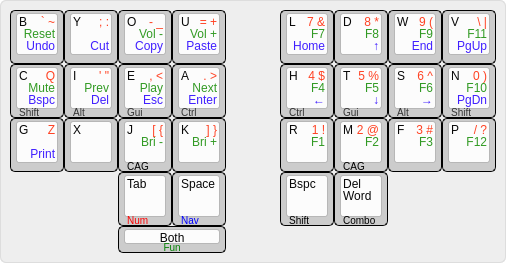
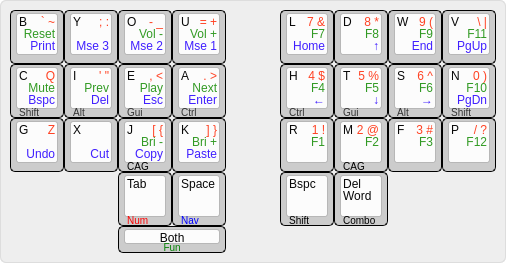
Update tamatama layout

diff --git a/keyboards/tamatama/keymaps/engram/keymap.c b/keyboards/tamatama/keymaps/engram/keymap.c
@@ -11,8 +11,10 @@ enum custom_keycodes {
     KC_CCUT,
     KC_CCPY,
     KC_CPST,
+    KC_BSEN,
     KC_SEN,
     KC_MSCL,
+    KC_GA1
 };
 
 
@@ -21,7 +23,8 @@ enum mylayers {
     _NAV,
     _NUM,
     _FUN,
-    _MSE,
+    _GA1,
+    _GA2,
 };
 
 #define KC_SFT_C MT(MOD_LSFT, KC_C)
@@ -40,6 +43,7 @@ enum mylayers {
 #define KC_GUI_CMA MT(MOD_LGUI, KC_COMMA)
 #define KC_CTL_DOT MT(MOD_LCTL, KC_DOT)
 #define KC_CAG_LBC LCAG_T(KC_LBRC)
+#define KC_CAG_CPY LCAG_T(KC_CCPY)
 #define KC_CAG_2 LCAG_T(KC_2)
 #define KC_CTL_4 MT(MOD_LCTL, KC_4)
 #define KC_GUI_5 MT(MOD_LGUI, KC_5)
@@ -68,9 +72,10 @@ enum mylayers {
 #define KC_SFT_F10 MT(MOD_LSFT, KC_F10)
 
 #define KC_FUN MO(_FUN)
+#define KC_GA2 MO(_GA2)
 #define KC_COMBO_SFT MT(MOD_LSFT, KC_BSPC)
-#define KC_COMBO_ALT1 LT(_NUM, KC_TAB)
-#define KC_COMBO_ALT2 LT(_NAV, KC_SPC)
+#define KC_COMBO_ALT2 LT(_NUM, KC_TAB)
+#define KC_COMBO_ALT1 LT(_NAV, KC_SPC)
 
 #include "g/keymap_combo.h"
 
@@ -79,7 +84,7 @@ const uint16_t PROGMEM keymaps[][MATRIX_ROWS][MATRIX_COLS] = {
          KC_B,     KC_Y,     KC_O,          KC_U,             KC_L,         KC_D,        KC_W,     KC_V,
          KC_SFT_C, KC_ALT_I, KC_GUI_E,      KC_CTL_A,         KC_CTL_H,     KC_GUI_T,    KC_ALT_S, KC_SFT_N,
          KC_G,     KC_X,     KC_CAG_J,      KC_K,             KC_R,         KC_CAG_M,    KC_F,     KC_P,
-                             KC_COMBO_ALT1, KC_COMBO_ALT2,    KC_COMBO_SFT, KC_COMBO
+                             KC_COMBO_ALT2, KC_COMBO_ALT1,    KC_COMBO_SFT, KC_COMBO
     ),
     [_NUM] = LAYOUT_split_3x4_2(
          KC_GRV,       KC_SCLN,    KC_MINUS,   KC_EQUAL,      KC_7,       KC_8,     KC_9,     KC_BSLS,
@@ -88,27 +93,34 @@ const uint16_t PROGMEM keymaps[][MATRIX_ROWS][MATRIX_COLS] = {
                                    KC_TRNS,    KC_FUN,        KC_TRNS,    KC_TRNS
     ),
     [_NAV] = LAYOUT_split_3x4_2(
-         KC_CUDO,      KC_CCUT,    KC_CCPY,    KC_CPST,       KC_HOME,    KC_UP,      KC_END,     KC_PGUP,
+         KC_PSCR,      KC_BTN3,    KC_BTN2,    KC_BTN1,       KC_HOME,    KC_UP,      KC_END,     KC_PGUP,
          KC_SFT_BSP,   KC_ALT_DEL, KC_GUI_ESC, KC_CTL_ENT,    KC_CTL_LFT, KC_GUI_DWN, KC_ALT_RGT, KC_SFT_PGD,
-         KC_PSCR,      KC_NO,      KC_CAG_NO,  KC_NO,         KC_NO,      KC_CAG_NO,  KC_NO,      KC_NO,
+         KC_CUDO,      KC_CCUT,    KC_CAG_CPY, KC_CPST,       KC_NO,      KC_CAG_NO,  KC_NO,      KC_NO,
                                    KC_FUN,     KC_TRNS,       KC_TRNS,    KC_TRNS
     ),
     [_FUN] = LAYOUT_split_3x4_2(
          QK_BOOT,    KC_NO,      KC_VOLD,     KC_VOLU,       KC_F7,     KC_F8,     KC_F9,     KC_F11,
          KC_SFT_MUT, KC_ALT_PRV, KC_GUI_PLY,  KC_CTL_NXT,    KC_CTL_F4, KC_GUI_F5, KC_ALT_F6, KC_SFT_F10,
-         KC_NO,      KC_NO,      KC_CAG_BRD,  KC_BRIU,       KC_F1,     KC_CAG_F2, KC_F3,     KC_F12,
+         KC_GA1,     KC_NO,      KC_CAG_BRD,  KC_BRIU,       KC_F1,     KC_CAG_F2, KC_F3,     KC_F12,
                                  KC_TRNS,     KC_TRNS,       KC_TRNS,   KC_TRNS
     ),
-    [_MSE] = LAYOUT_split_3x4_2(
-         KC_TRNS, KC_TRNS, KC_TRNS, KC_TRNS,    KC_BTN3, KC_TRNS, KC_TRNS, KC_TRNS,
-         KC_TRNS, KC_TRNS, KC_TRNS, KC_TRNS,    KC_MSCL, KC_TRNS, KC_TRNS, KC_TRNS,
-         KC_TRNS, KC_TRNS, KC_TRNS, KC_TRNS,    KC_TRNS, KC_TRNS, KC_TRNS, KC_TRNS,
-                           KC_TRNS, KC_TRNS,    KC_BTN1, KC_BTN2
+    [_GA1] = LAYOUT_split_3x4_2(
+         KC_TAB,  KC_Q,  KC_W,    KC_E,      KC_ESC,  KC_UP,   KC_ENTER, KC_NO,
+         KC_LSFT, KC_A,  KC_S,    KC_D,      KC_LEFT, KC_DOWN, KC_RIGHT, KC_NO,
+         KC_LCTL, KC_Z,  KC_X,    KC_C,      KC_NO,   KC_NO,   KC_NO, KC_NO,
+                         KC_GA2,  KC_SPC,    KC_BTN2, KC_BSPC
     ),
+    [_GA2] = LAYOUT_split_3x4_2(
+         KC_4,   KC_5, KC_6,  KC_R,     KC_F7, KC_F8, KC_F9, KC_F11,
+         KC_1,   KC_2, KC_3,  KC_F,     KC_F4, KC_F5, KC_F6, KC_F10,
+         KC_GA1, KC_7, KC_8,  KC_G,     KC_F1, KC_F2, KC_F3, KC_F12,
+                       KC_NO, KC_NO,    KC_NO, KC_NO
+    )
     // [_BLANK] = LAYOUT_split_3x4_2(
     //      KC_NO, KC_NO, KC_NO, KC_NO,    KC_NO, KC_NO, KC_NO, KC_NO,
     //      KC_NO, KC_NO, KC_NO, KC_NO,    KC_NO, KC_NO, KC_NO, KC_NO,
     //      KC_NO, KC_NO, KC_NO, KC_NO,    KC_NO, KC_NO, KC_NO, KC_NO,
+    //                    KC_NO, KC_NO,    KC_NO, KC_NO,
     //                    KC_NO, KC_NO,    KC_NO, KC_NO
     // ),
 };
@@ -151,12 +163,6 @@ void keyboard_post_init_user(void) {
 }
 
 #ifdef POINTING_DEVICE_ENABLE
-void pointing_device_init_user(void) {
-    set_auto_mouse_layer(_MSE); // only required if AUTO_MOUSE_DEFAULT_LAYER is not set to index of <mouse_layer>
-    set_auto_mouse_enable(true);         // always required before the auto mouse feature will work
-    set_auto_mouse_timeout(1000);
-
-}
 bool set_scrolling = false;
 // Modify these values to adjust the scrolling speed
 #define SCROLL_DIVISOR_H 100.0
@@ -283,19 +289,19 @@ bool process_record_user(uint16_t keycode, keyrecord_t *record) {
                 return false;
             }
             break;
-        // case KC_CAG_CPY:
-        //     if (record->tap.count && record->event.pressed) {
-        //         switch(detected_host_os()) {
-        //             case OS_MACOS:
-        //                 tap_code16(G(KC_C));
-        //                 break;
-        //             default:
-        //                 tap_code16(C(KC_C));
-        //                 break;
-        //         }
-        //         return false;
-        //     }
-        //     break;
+        case KC_CAG_CPY:
+            if (record->tap.count && record->event.pressed) {
+                switch(detected_host_os()) {
+                    case OS_MACOS:
+                        tap_code16(G(KC_C));
+                        break;
+                    default:
+                        tap_code16(C(KC_C));
+                        break;
+                }
+                return false;
+            }
+            break;
         case KC_CPST:
             if (record->event.pressed) {
                 switch(detected_host_os()) {
@@ -311,8 +317,14 @@ bool process_record_user(uint16_t keycode, keyrecord_t *record) {
             break;
         case KC_SEN:
             if (record->event.pressed) {
-                tap_code16(KC_DOT);
-                tap_code16(KC_SPC);
+                SEND_STRING(". ");
+                set_oneshot_mods(MOD_BIT(KC_LSFT));
+                return false;
+            }
+            break;
+        case KC_BSEN:
+            if (record->event.pressed) {
+                SEND_STRING(SS_TAP(X_BSPC)". ");
                 set_oneshot_mods(MOD_BIT(KC_LSFT));
                 return false;
             }
@@ -324,6 +336,18 @@ bool process_record_user(uint16_t keycode, keyrecord_t *record) {
                 set_scrolling = false;
             }
             return false;
+        case KC_GA1:
+            if (record->event.pressed) {
+                if (layer_state_is(_GA1)) {
+                    layer_off(_GA1);
+                } else {
+                    layer_on(_GA1);
+                }
+                // Combos mess with game input
+                combo_toggle();
+                return false;
+            }
+            break;
     }
 
     return true;

diff --git a/keyboards/tamatama/keymaps/engram/README.md b/keyboards/tamatama/keymaps/engram/README.md
@@ -19,8 +19,3 @@ There are some differences in the dual function keys:
 - Num and shift use the trigger on other press style making it an instant trigger, the trade off here is you can't 'roll' to another key but I haven't had many issues with tab/bspc
 - The combo key is used for typing words with a single chord for which I created this [Abbreviation generator](https://github.com/dlip/abbrgen)
 
-## Mouse Layer
-
-![](dlip's-28-key-engram-layout---mouse.png)
-
-The mouse layer is triggered automatically on movement. The right trackball moves the mouse and the left one scrolls. The scroll button makes the right one scroll when held.
